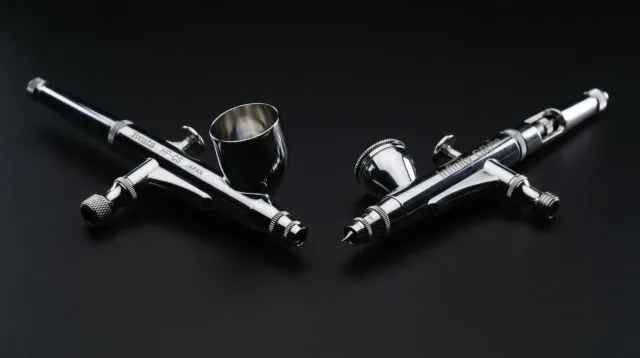
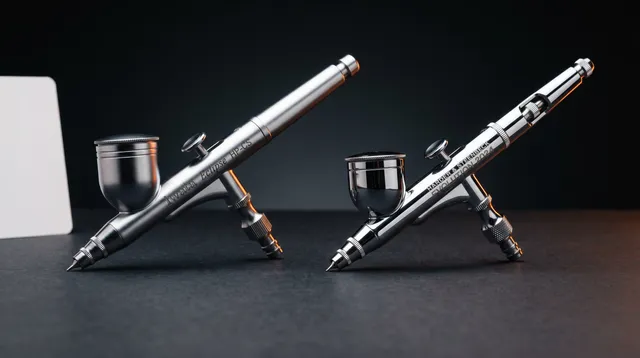
Merge Iwata Eclipse vs H&S Evolution 2024 into pillar post
- Fold 2024-model spec table + Evolution 2024 feature breakdown + matchup
  verdict into iwata-vs-harder-steenbeck pillar
- Swap pillar hero to new generated airbrush product shot
- Delete duplicate iwata-eclipse-vs-hs-evolution-2024 article + images
- 301 redirect duplicate slug -> pillar

diff --git a/src/content/blog/iwata-vs-harder-steenbeck.md b/src/content/blog/iwata-vs-harder-steenbeck.md
@@ -10,6 +10,7 @@ tags:
   - "best airbrush brand"
 readingTime: 12
 heroImage: "/images/iwata-vs-harder-steenbeck.webp"
+heroImageAlt: "Iwata Eclipse HP-CS and Harder & Steenbeck Evolution 2024 airbrushes side by side"
 draft: false
 ---
 
@@ -140,6 +141,37 @@ Here's how the most popular models stack up against their cross-brand equivalent
 | **Top-tier precision** | Infinity Cult of Paint (0.15/0.4mm) ~$220–300 | Custom Micron (0.18mm) ~$400–500+ | H&S is much cheaper; Iwata is legendary |
 
 At every price point, H&S typically offers more needle/nozzle versatility (2-in-1 sets) for less money. Iwata offers more refined single-purpose tools with tighter manufacturing tolerances.
+
+---
+
+## Spotlight: Iwata Eclipse HP-CS vs H&S Evolution 2024 (2-in-1)
+
+These are the two models most people actually cross-shop, so here's a focused head-to-head. Harder & Steenbeck completely redesigned the Evolution line in 2024, pulling features down from their flagship Infinity — which makes this matchup closer than it used to be.
+
+| Feature | Iwata Eclipse HP-CS | H&S Evolution 2024 CRplus (2-in-1) |
+| :--- | :--- | :--- |
+| **Default nozzle** | 0.35mm | 0.28mm (0.45mm also included) |
+| **Nozzle design** | Drop-in, self-centering (compression fit) | Drop-in, threadless (FineLine head) |
+| **Cup size** | 7ml fixed | 2ml & 5ml interchangeable |
+| **Trigger** | Standard dual-action | Trigger Cam Control system |
+| **Needle stop** | No | Yes (adjustable, repeatable lines) |
+| **Cleaning** | Spanner needed for head cap | Tool-free teardown + Speed Clean trigger |
+
+### What's new in the Evolution 2024
+
+- **Trigger Cam Control + needle stop** — the trigger runs on an eccentric cam for sharper response, and the adjustable rear needle stop lets you "lock" trigger travel for perfectly repeatable lines. Great for beginners and detail work.
+- **Tool-free maintenance** — full strip-and-rebuild with your fingers, no wrench.
+- **Speed Clean trigger** — ~20% more needle travel when pulled all the way back, so you can flush clogs fast.
+- **Triple chrome plating + PTFE seals** — shrugs off harsh lacquer thinners.
+
+### Verdict on this matchup
+
+- **Fine detail (mini eyes, panel lines):** Evolution 2024 — 0.28mm nozzle plus the needle stop.
+- **Heavy/thick paint (primers, varnishes, unthinned craft paint):** Eclipse HP-CS — the 0.35mm setup atomizes high-flow fluids better and resists tip-dry.
+- **Cleaning speed:** Evolution 2024 — exposed needle cap, tool-free teardown, Speed Clean trigger.
+- **Durability:** a tie — Iwata's legendary build vs H&S's new triple-chrome/PTFE construction. Both last a lifetime if cared for.
+
+If you mostly paint miniatures and want maximum versatility out of one box, the Evolution 2024 2-in-1 is the pick. If you want an indestructible "set it and forget it" workhorse for base-coating and clears, the [Eclipse HP-CS](/go/iwata-eclipse-hp-cs) is hard to beat.
 
 ---
 
